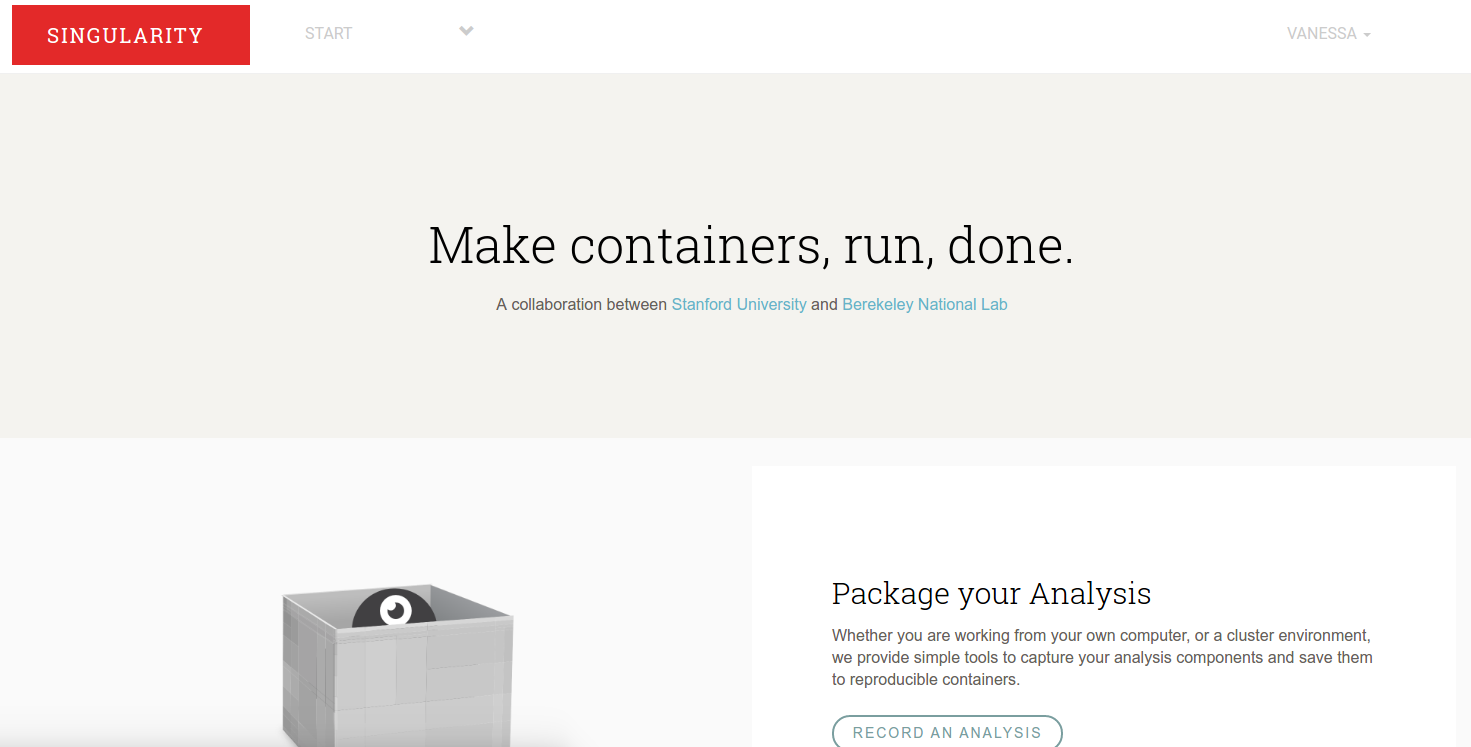
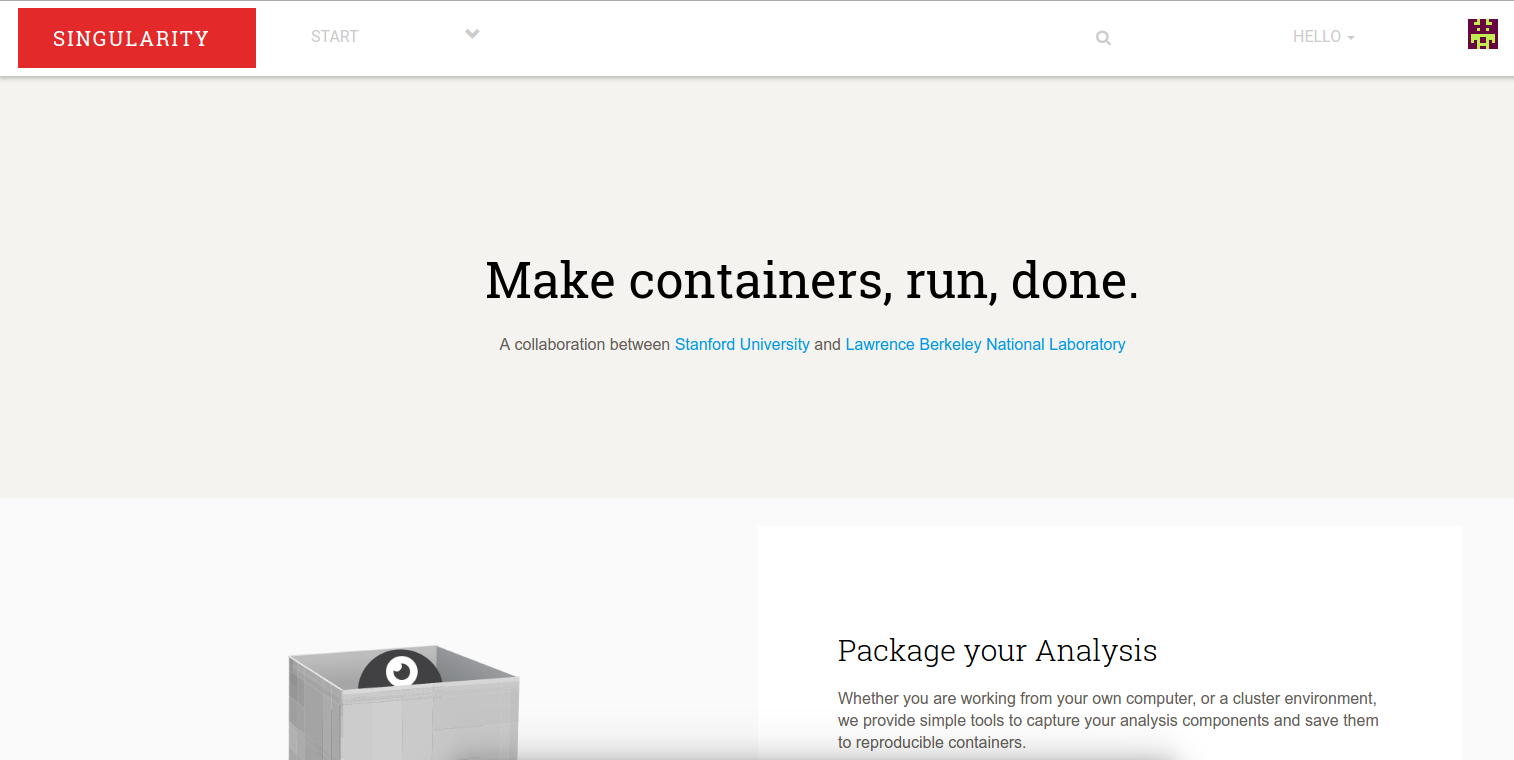
updating image, also added flat styling for MDL look and (eventually) tables

diff --git a/shub/apps/main/templates/main/mega_dropdown.html b/shub/apps/main/templates/main/mega_dropdown.html
@@ -11,21 +11,21 @@
                                 <!-- Workflow 1 -->
                                 <div class="item active">
                                     <a href="#"><img src="http://placehold.it/254x150/3498db/f5f5f5/&text=Workflow+One" class="img-responsive" alt="workflow 1"></a>
-                                    <h4><small>Workflow One</small></h4>                                        
+                                    <h6><small>Workflow One</small></h6>                                        
                                     <button class="btn btn-primary" type="button">Save</button> <button href="#" class="btn btn-default" type="button"></span> Use this workflow</button>       
                                 </div><!-- End Item -->
 
                                 <!-- Workflow 2 -->
                                 <div class="item">
                                     <a href="#"><img src="http://placehold.it/254x150/ef5e55/f5f5f5/&text=Workflow+Two" class="img-responsive" alt="workflow 2"></a>
-                                    <h4><small>Make your meatballs with HPC</small></h4>                                        
+                                    <h6><small>Make your meatballs with HPC</small></h6>                                        
                                     <button class="btn btn-primary" type="button">Save</button> <button href="#" class="btn btn-default" type="button"></span> Use this workflow</button>        
                                 </div><!-- End Item -->
 
                                 <!-- Workflow 3 -->
                                 <div class="item">
                                     <a href="#"><img src="http://placehold.it/254x150/2ecc71/f5f5f5/&text=Workflow+Three" class="img-responsive" alt="workflow 3"></a>
-                                    <h4><small> What would the wookie do?</small></h4>                                        
+                                    <h6><small> What would the wookie do?</small></h6>                                        
                                     <button class="btn btn-primary" type="button">Save</button> <button href="#" class="btn btn-default" type="button"></span> Use this workflow</button>      
                                 </div><!-- End Item -->                                
                               </div><!-- End Carousel Inner -->
@@ -37,21 +37,19 @@
                     </li>
                     <li class="col-sm-3">
                         <ul>
-                            <li class="dropdown-header">Workflows</li>
-                            <li><a href="#">New Workflow</a></li>
+                            <li class="dropdown-header">Workflows</li><br>
+                            <li><a href="#">Create a New Workflow</a></li>
                             <li><a href="#">My Workflows</a></li>
-                            <li><a href="#">Workflows Collections</a></li>
-                            <li class="divider"></li>
+                            <li style="margin-bottom:30px"><a href="#">Workflows Collections</a></li>
                             <li class="dropdown-header">Workflows Instructions</li>
                             <li><a href="#">Workflow getting started</a></li>
                         </ul>
                     </li>
                     <li class="col-sm-3">
                         <ul>
-                            <li class="dropdown-header">Containers</li>
+                            <li class="dropdown-header">Containers</li><br>
                             <li><a href="{% url 'my_container_collections' %}">My Collections</a></li>
-                            <li><a href="{% url 'container_collections' %}">All Collections</a></li>
-                            <li class="divider"></li>
+                            <li style="margin-bottom:30px"><a href="{% url 'container_collections' %}">All Collections</a></li>
                             <li class="dropdown-header">Containers Instructions</li>
                             <li><a href="#">Containers getting started</a></li>
                             <li><a href="singularity.lbl.gov" target="_blank">About Singularity</a></li>

diff --git a/shub/apps/shub/templates/containers/all_containers.html b/shub/apps/shub/templates/containers/all_containers.html
@@ -66,7 +66,7 @@
                                 <div class="uk-panel uk-panel-box"><!-- can add classes like uk-panel-box-primary-->                               <a><p class="collection" collection="{{ collection.id }}">{{ collection.name }}</p></a>{{ collection.description }}
                                     <!--<button class="uk-button">View</button>--> 
                                     <div class="uk-panel-badge uk-badge" style="min-width:72px">
-                                        {{ collection.owner }} | {{ collection.containers.count }}
+                                        {{ collection.owner }} | {{ collection.container_set.count }}
                                     </div>
                                     <a><img class="collection" collection="{{ collection.id }}" src="http://api.adorable.io/avatars/68/{{ collection.id }}" style="float:right; border-radius:5px;"/></a>
                                 </div>

diff --git a/shub/apps/main/templates/main/base.html b/shub/apps/main/templates/main/base.html
@@ -41,12 +41,14 @@
         <!-- Icons-->
         <link rel="stylesheet" href="{% static "css/icomoon.css"%}">
         <link href="{% static "css/themify-icons.css"%}" rel="stylesheet">
+        <link rel="stylesheet" href="https://fonts.googleapis.com/icon?family=Material+Icons">
         <!-- Simple Line Icons -->
         <link rel="stylesheet" href="{% static "css/simple-line-icons.css"%}">
         <!-- Theme Style -->
         <link rel="stylesheet" href="{% static "css/style.css"%}">
         <link rel="stylesheet" href="{% static "css/nav.css"%}">
         <link rel="stylesheet" href="{% static "css/paper-dashboard.css"%}">
+        <link rel="stylesheet" href="https://cdnjs.cloudflare.com/ajax/libs/materialize/0.97.0/css/materialize.min.css">
         <!-- Modernizr JS -->
         <script src="{% static "js/modernizr-2.6.2.min.js"%}"></script>
         <!-- FOR IE9 below -->

diff --git a/shub/apps/main/templates/main/index.html b/shub/apps/main/templates/main/index.html
@@ -8,9 +8,9 @@
 <div class="fh5co-intro text-center">
     <div class="container">
         <div class="row">
-            <div class="col-md-8 col-md-offset-2">
-                <h1 class="intro-lead">Make containers, run, done.</h1>
-                <p class="">A collaboration between <a href="https://srcc.stanford.edu/">Stanford University</a> and <a href="http://scs.lbl.gov/" target="_blank"> Berekeley National Lab</a></p>
+            <div style="width:800px" class="col-md-8 col-md-offset-2">
+                <h1 class="intro-lead" style="font-weight:500">Make containers, run, done.</h1>
+                <p class="">A collaboration between <a href="https://srcc.stanford.edu/">Stanford University</a> and <a href="http://scs.lbl.gov/" target="_blank"> Lawrence Berkeley National Laboratory</a></p>
             </div>
         </div>
     </div>

diff --git a/shub/apps/main/static/css/style.css b/shub/apps/main/static/css/style.css
@@ -1835,7 +1835,6 @@ abbr[data-original-title] {
 
 .topright {
   position: absolute;
-  top:20px;
   right:5px;
 }
 
